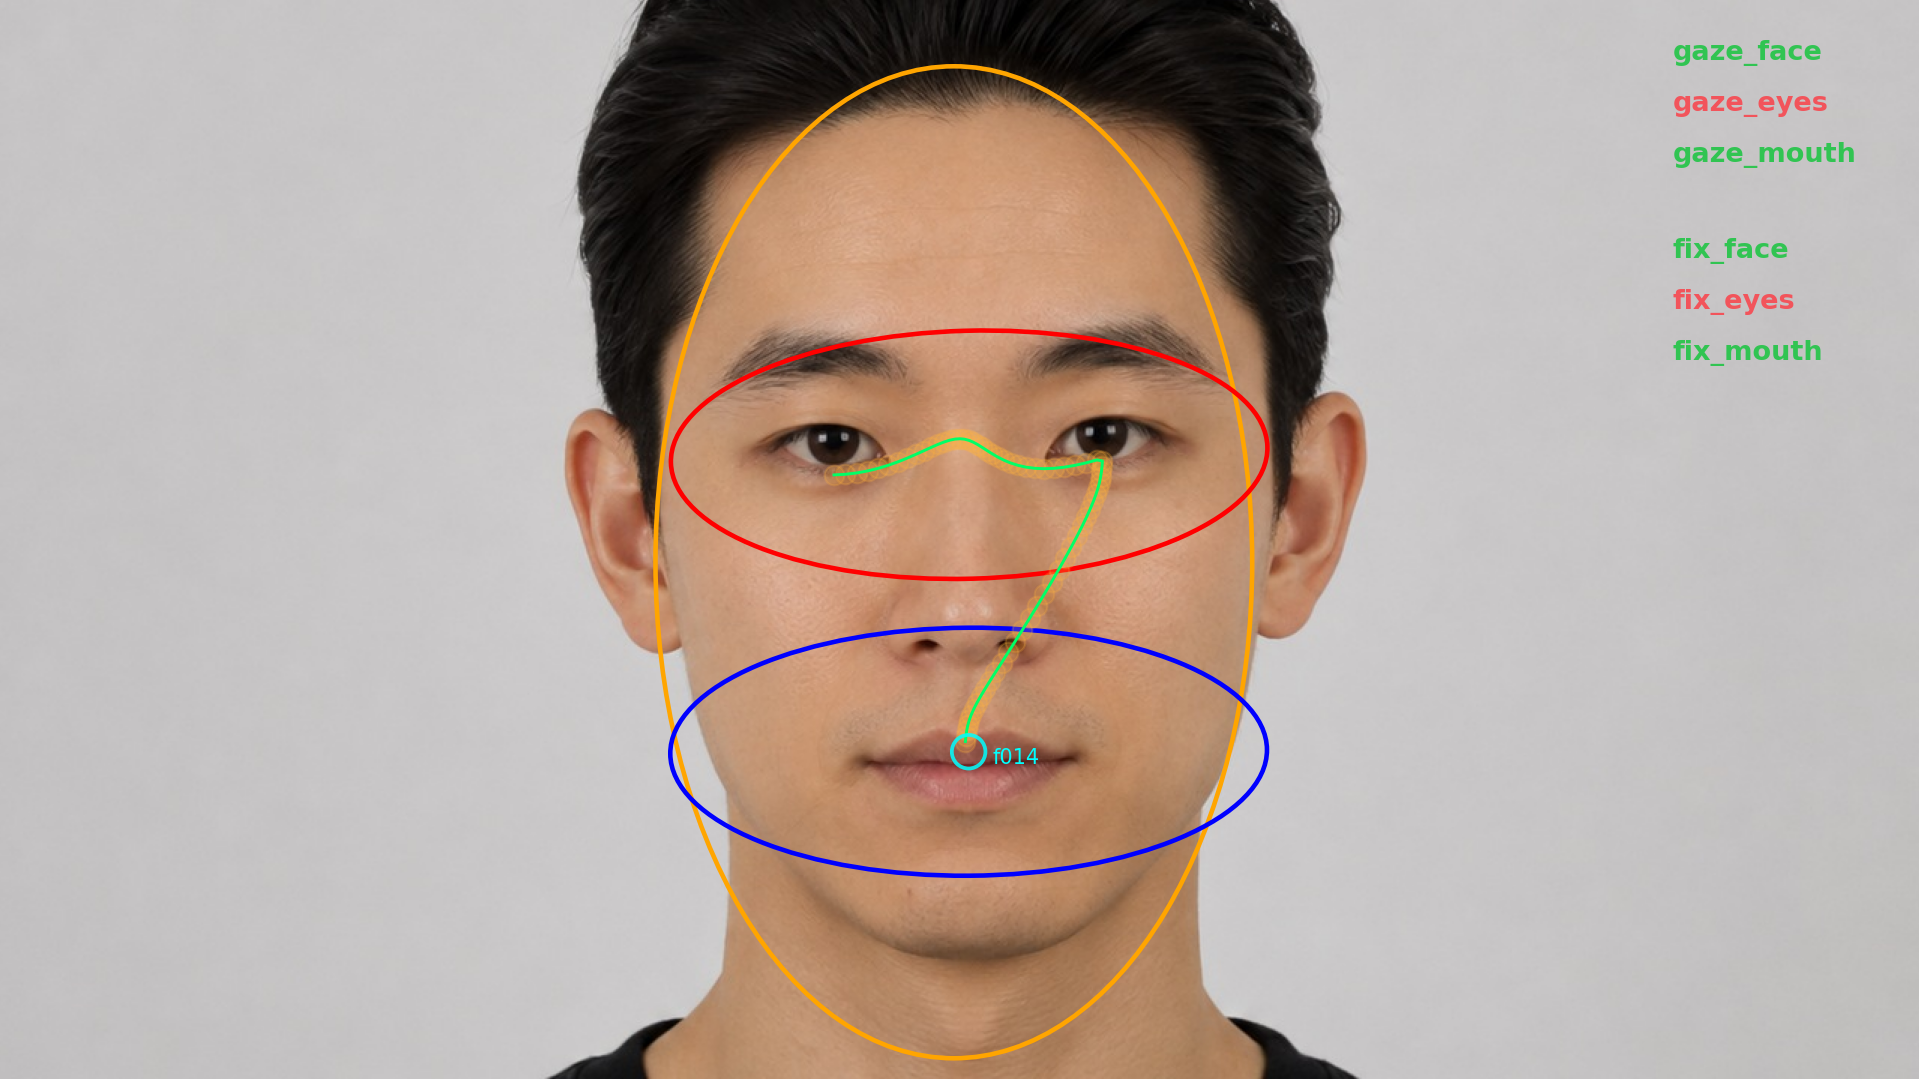
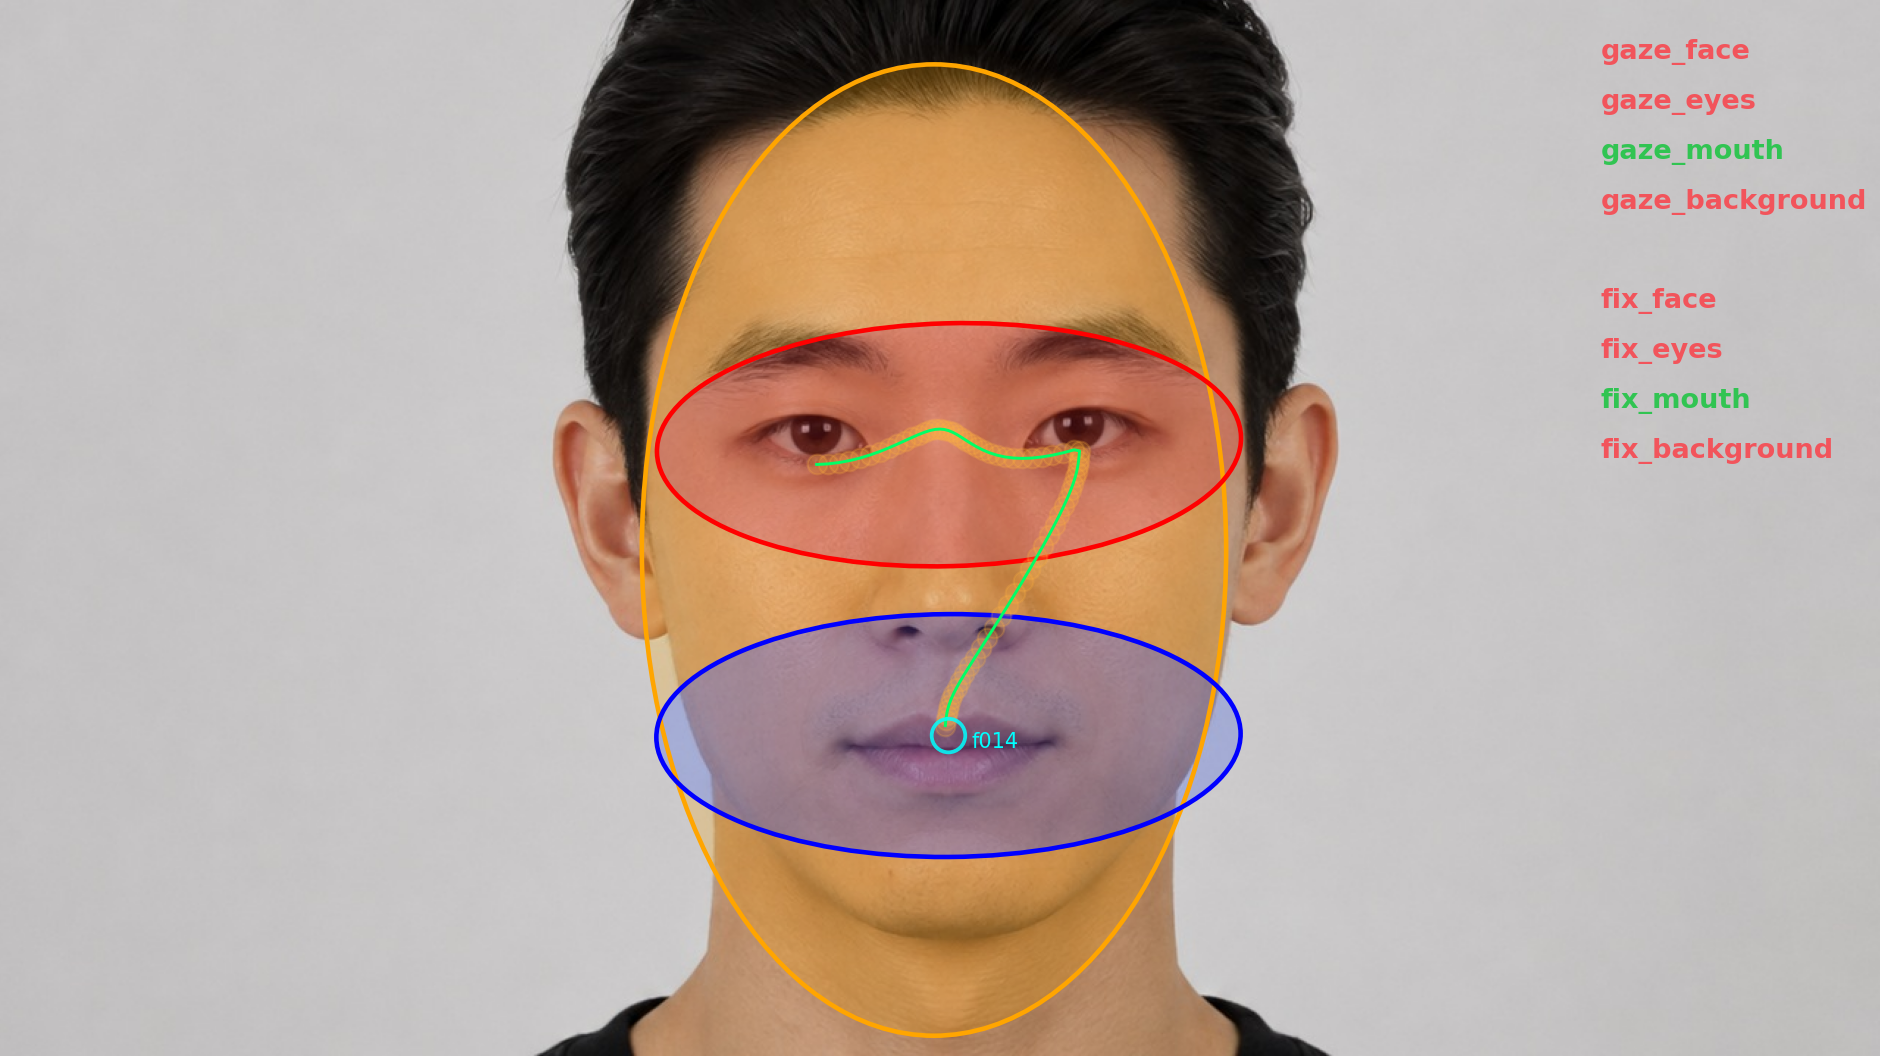
Shade the AOIs as the four mutually exclusive areas the analysis uses
draw.py tests the three ellipses independently, so its flags overlap: a sample on
the eyes is also on the face. The demo was showing that raw test, which does not
reflect how the data is actually analysed. shared_transform_data.R resolves the
overlap into four exclusive, exhaustive areas — eyes and mouth take precedence,
face is the remainder of the face, background is everything else — and the figure
now shades exactly those, so the partition is visible rather than implied and one
label per sample is green.

Checked against the frame: all 921600 pixels fall in exactly one area, none in
two, none in none.

diff --git a/00_detection/demo/make_demo_figure.py b/00_detection/demo/make_demo_figure.py
@@ -3,14 +3,18 @@
 The real pipeline draws its overlay onto the scene-camera video of an eye-tracking
 session. That footage shows the participant's conversation partner, with the
 participant's gaze drawn on top, so no real frame can be published. This script
-produces the same overlay over a public-domain stock portrait instead: the face is
-detected for real, and only the gaze path is invented.
+produces the same overlay over a generated stand-in face: the face is detected for
+real, and only the gaze path is invented.
 
     python 00_detection/demo/make_demo_figure.py -o docs/detection-demo.png
 
 The AOI geometry is the same as ``draw.py``: the face ellipse spans the detector's
 bounding box at 1.2x its height, and the eye and mouth ellipses span their two
 keypoints with the box width and 0.3x its height, rotated to match.
+
+The four areas are shaded as the analysis treats them — mutually exclusive and
+exhaustive, following shared_transform_data.R: eyes and mouth take precedence over
+the face, "face" means the rest of the face, and "background" is everything else.
 
 By default the committed detection in ``sample_frame_detection.json`` is used, so
 the figure reproduces without a detector installed. Pass ``--detect`` to re-run
@@ -30,9 +34,13 @@ from matplotlib.patches import Ellipse
 
 HERE = Path(__file__).resolve().parent
 FACE_COLOR, EYES_COLOR, MOUTH_COLOR = "orange", "red", "blue"
+FACE_RGB = (1.00, 0.65, 0.00)
+EYES_RGB = (0.90, 0.15, 0.15)
+MOUTH_RGB = (0.15, 0.30, 0.95)
 GAZE_POINT = (1.0, 0.7, 0.25)
 GAZE_PATH = (0.0, 1.0, 0.4)
 FIXATION = (0.0, 1.0, 1.0)
+HIT, MISS = "#31c452", "#f2545b"
 
 
 def detect(image_path):
@@ -78,12 +86,23 @@ def span_ellipse(p_right, p_left, box):
     return tuple(center), w, h * 0.3, degrees(atan2(diff[1], diff[0]))
 
 
-def inside(point, center, w, h, angle):
+def inside(px, py, ell):
+    """Point-in-ellipse, vectorised so it also builds the shading masks."""
+    (cx, cy), w, h, angle = ell
     a = np.radians(angle)
-    dx, dy = point[0] - center[0], point[1] - center[1]
+    dx, dy = px - cx, py - cy
     xr = dx * np.cos(a) + dy * np.sin(a)
     yr = -dx * np.sin(a) + dy * np.cos(a)
     return (xr / (w / 2)) ** 2 + (yr / (h / 2)) ** 2 <= 1.0
+
+
+def classify(px, py, face, eyes, mouth):
+    """The four exclusive areas, as shared_transform_data.R derives them."""
+    in_face, in_eyes, in_mouth = (inside(px, py, e) for e in (face, eyes, mouth))
+    face_excl = in_face & ~in_eyes & ~in_mouth
+    background = ~face_excl & ~in_eyes & ~in_mouth
+    return {"face": face_excl, "eyes": in_eyes,
+            "mouth": in_mouth, "background": background}
 
 
 def main():
@@ -98,34 +117,38 @@ def main():
     det_file = HERE / "sample_frame_detection.json"
     det = detect(args.image) if args.detect else json.loads(det_file.read_text())
 
-    box = det["box"]
-    kp = det["keypoints"]
-    face_c, face_w, face_h, face_a = face_ellipse(box)
-    eyes_c, eyes_w, eyes_h, eyes_a = span_ellipse(kp["right_eye"], kp["left_eye"], box)
-    mouth_c, mouth_w, mouth_h, mouth_a = span_ellipse(kp["mouth_right"], kp["mouth_left"], box)
+    box, kp = det["box"], det["keypoints"]
+    face = face_ellipse(box)
+    eyes = span_ellipse(kp["right_eye"], kp["left_eye"], box)
+    mouth = span_ellipse(kp["mouth_right"], kp["mouth_left"], box)
 
     img = pyplot.imread(args.image)
     fh, fw = img.shape[:2]
 
     # An invented scanpath: across one eye to the other, then down to the mouth.
-    # It ends inside the mouth AOI so the labels show both a hit and a miss.
     right_eye, left_eye = np.array(kp["right_eye"]), np.array(kp["left_eye"])
+    mouth_c = np.array(mouth[0])
     waypoints = np.array([right_eye, (right_eye + left_eye) / 2, left_eye,
-                          (left_eye + np.array(mouth_c)) / 2, np.array(mouth_c)])
+                          (left_eye + mouth_c) / 2, mouth_c])
     u = np.linspace(0, len(waypoints) - 1, 70)
-    gx = np.interp(u, np.arange(len(waypoints)), waypoints[:, 0])
-    gy = np.interp(u, np.arange(len(waypoints)), waypoints[:, 1])
-    gx = gx + 13 * np.sin(u * 3.1)          # sampling jitter
-    gy = gy + 11 * np.cos(u * 3.7)
+    gx = np.interp(u, np.arange(len(waypoints)), waypoints[:, 0]) + 13 * np.sin(u * 3.1)
+    gy = np.interp(u, np.arange(len(waypoints)), waypoints[:, 1]) + 11 * np.cos(u * 3.7)
     fixation = (float(mouth_c[0]), float(mouth_c[1]))
 
     fig, ax = pyplot.subplots(figsize=(fw / 100, fh / 100))
     ax.imshow(img)
 
-    for (c, w, h, a), col in (((face_c, face_w, face_h, face_a), FACE_COLOR),
-                              ((eyes_c, eyes_w, eyes_h, eyes_a), EYES_COLOR),
-                              ((mouth_c, mouth_w, mouth_h, mouth_a), MOUTH_COLOR)):
-        ax.add_patch(Ellipse(c, w, h, angle=a, fill=False, edgecolor=col, lw=2.2, zorder=4))
+    # Shade the exclusive areas so the partition is visible, not just implied.
+    yy, xx = np.mgrid[0:fh, 0:fw]
+    masks = classify(xx, yy, face, eyes, mouth)
+    overlay = np.zeros((fh, fw, 4))
+    for name, rgb in (("face", FACE_RGB), ("eyes", EYES_RGB), ("mouth", MOUTH_RGB)):
+        overlay[masks[name]] = (*rgb, 0.24)
+    ax.imshow(overlay, zorder=3)
+
+    for ell, col in ((face, FACE_COLOR), (eyes, EYES_COLOR), (mouth, MOUTH_COLOR)):
+        ax.add_patch(Ellipse(ell[0], ell[1], ell[2], angle=ell[3], fill=False,
+                             edgecolor=col, lw=2.2, zorder=4))
 
     ax.scatter(gx, gy, color=GAZE_POINT, s=90, alpha=0.22, zorder=5)
     ax.plot(gx, gy, color=GAZE_PATH, lw=1.4, zorder=5)
@@ -134,17 +157,16 @@ def main():
     ax.text(fixation[0] + 16, fixation[1] + 8, "f014", color=FIXATION,
             fontsize=10, zorder=6)
 
-    aois = (("face", face_c, face_w, face_h, face_a),
-            ("eyes", eyes_c, eyes_w, eyes_h, eyes_a),
-            ("mouth", mouth_c, mouth_w, mouth_h, mouth_a))
-    last_gaze = (float(gx[-1]), float(gy[-1]))
-    label_x = fw - 165
-    for n, (name, c, w, h, a) in enumerate(aois):
-        for prefix, pt, y0 in (("gaze", last_gaze, 40), ("fix", fixation, 172)):
-            hit = inside(pt, c, w, h, a)
+    # Exactly one area per sample is green, because the areas do not overlap.
+    order = ["face", "eyes", "mouth", "background"]
+    label_x = fw - 190
+    for prefix, pt, y0 in (("gaze", (float(gx[-1]), float(gy[-1])), 40),
+                           ("fix", fixation, 210)):
+        hits = classify(np.array(pt[0]), np.array(pt[1]), face, eyes, mouth)
+        for n, name in enumerate(order):
             ax.text(label_x, y0 + n * 34, f"{prefix}_{name}",
-                    color="#31c452" if hit else "#f2545b", fontsize=13,
-                    fontweight="bold", zorder=7)
+                    color=HIT if bool(hits[name]) else MISS,
+                    fontsize=13, fontweight="bold", zorder=7)
 
     ax.set_xlim(0, fw); ax.set_ylim(fh, 0)
     ax.set_xticks([]); ax.set_yticks([])

diff --git a/README.md b/README.md
@@ -25,9 +25,11 @@ face and its keypoints are detected by the code, the gaze path is synthetic.
 
 ![The AOI overlay, on a generated face](docs/detection-demo.png)
 
-Orange marks the face AOI, red the eyes, blue the mouth. The dotted trail is the
-gaze path and the cyan circle a fixation. The labels on the right report which
-AOIs the current sample fell inside — here the gaze has moved off the eyes and
+Orange marks the face, red the eyes, blue the mouth, and everything outside is
+background. The four areas are mutually exclusive — the eye and mouth regions are
+carved out of the face, so every gaze sample and fixation belongs to exactly one
+of them, which is what the labels on the right report. The dotted trail is the
+gaze path and the cyan circle a fixation; here the gaze has left the eyes and
 settled on the mouth.
 
 Generated by [`00_detection/demo/`](00_detection/demo/), which documents the image

diff --git a/00_detection/demo/README.md b/00_detection/demo/README.md
@@ -34,3 +34,14 @@ The AOI geometry is taken from `../draw.py` unchanged: the face ellipse spans th
 bounding box at 1.2× its height, and the eye and mouth ellipses span their two
 keypoints using the box width and 0.3× its height, rotated to the angle between
 them.
+
+## Areas of interest
+
+`draw.py` tests each ellipse independently, so its three flags overlap — a sample
+on the eyes is also on the face. The analysis resolves that into four mutually
+exclusive, exhaustive areas in `01_analysis/00_preprocessing/shared_transform_data.R`:
+eyes and mouth take precedence, `face` means the remainder of the face, and
+`background` is everything else.
+
+The figure shades the areas as the analysis defines them, so the partition is
+visible rather than implied, and exactly one label per sample is green.
